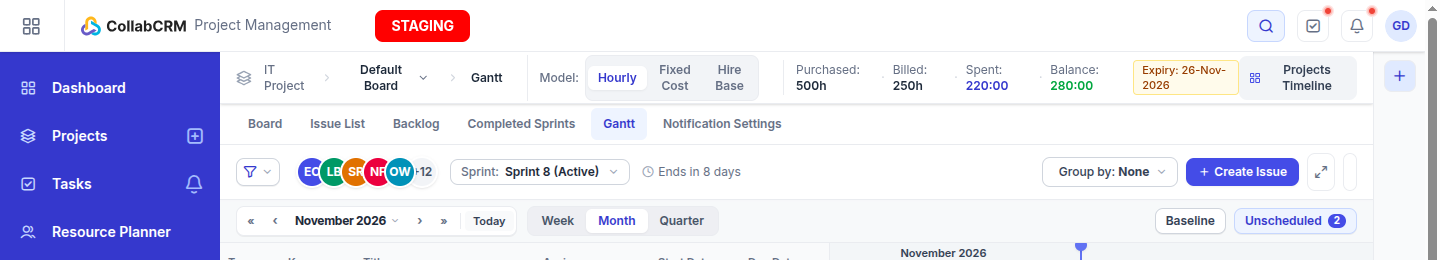
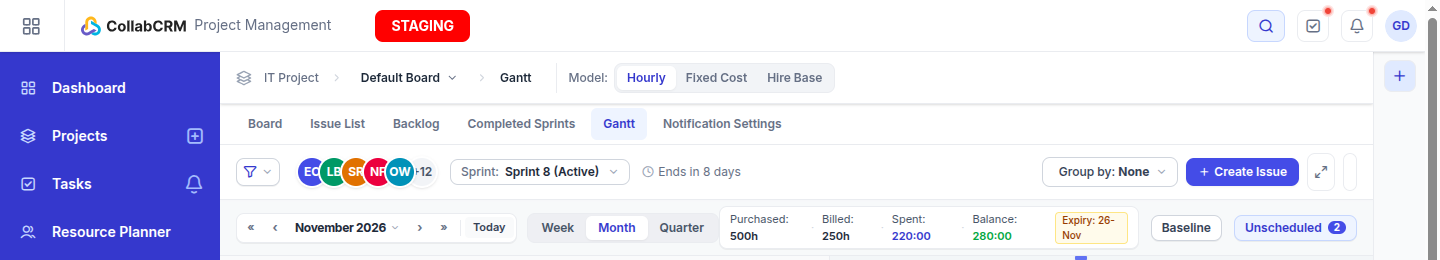
fix: clean top breadcrumb header, remove timeline button, and show individual developer contracts for hire base

diff --git a/src/pages/GanttBoard.jsx b/src/pages/GanttBoard.jsx
@@ -1733,64 +1733,6 @@ export default function GanttBoard() {
                   ))}
                 </div>
               </div>
-
-              {/* Compact Project Hours / Contract KPI Pills (Option A) */}
-              <div className="flex items-center gap-2.5 ml-3 pl-3 border-l border-gray-200 text-xs">
-                {projectModel === 'Fixed Cost' && (
-                  <div className="flex items-center gap-2 text-xs">
-                    <span className="text-gray-500">Estimated: <strong className="text-gray-800 font-semibold">500h</strong></span>
-                    <span className="text-gray-300">·</span>
-                    <span className="text-gray-500">Top-Up: <strong className="text-gray-800 font-semibold">50h</strong></span>
-                    <span className="text-gray-300">·</span>
-                    <span className="text-gray-500">Total: <strong className="text-indigo-700 font-semibold">550h</strong></span>
-                    <span className="text-gray-300">·</span>
-                    <span className="text-gray-500">Spent: <strong className="text-gray-800 font-semibold">210:00</strong></span>
-                  </div>
-                )}
-                {projectModel === 'Hourly' && (
-                  <div className="flex items-center gap-2 text-xs">
-                    <span className="text-gray-500">Purchased: <strong className="text-gray-800 font-semibold">500h</strong></span>
-                    <span className="text-gray-300">·</span>
-                    <span className="text-gray-500">Billed: <strong className="text-gray-800 font-semibold">250h</strong></span>
-                    <span className="text-gray-300">·</span>
-                    <span className="text-gray-500">Spent: <strong className="text-indigo-700 font-semibold">220:00</strong></span>
-                    <span className="text-gray-300">·</span>
-                    <span className="text-gray-500">Balance: <strong className="text-green-600 font-semibold">280:00</strong></span>
-                    <span className="inline-flex items-center px-2 py-0.5 rounded bg-amber-50 border border-amber-200 text-amber-800 text-[11px] font-medium">
-                      Expiry: 26-Nov-2026
-                    </span>
-                  </div>
-                )}
-                {projectModel === 'Hire Base' && (
-                  <div className="flex items-center gap-2 text-xs">
-                    <span className="text-gray-500">Contract Start: <strong className="text-gray-800 font-semibold">01-Nov-2026</strong></span>
-                    <span className="text-gray-300">·</span>
-                    <span className="text-gray-500">Contract End: <strong className="text-gray-800 font-semibold">28-Nov-2026</strong></span>
-                    <span className="inline-flex items-center px-2 py-0.5 rounded bg-indigo-50 border border-indigo-200 text-indigo-700 text-[11px] font-semibold">
-                      Remaining: 8 days
-                    </span>
-                  </div>
-                )}
-              </div>
-            </div>
-
-            <div className="flex items-center gap-2">
-              {/* Dashboard Gantt Button (Story 8) */}
-              <button
-                onClick={() => {
-                  setUnscheduledOpen(false)
-                  setPanel(null)
-                  setResourcePlannerOpen(false)
-                  setCreateModalOpen(false)
-                  setCompanyGanttOpen(true)
-                }}
-                className="flex items-center gap-1.5 px-2.5 py-1.5 bg-gray-100 hover:bg-gray-200 text-gray-700 rounded-lg text-xs font-semibold transition-colors"
-                title="Projects Timeline"
-              >
-                <span className="icon-grid-01 text-xs text-indigo-600" />
-                <span>Projects Timeline</span>
-              </button>
-
             </div>
           </>
         )}
@@ -2142,8 +2084,30 @@ export default function GanttBoard() {
               )}
             </div>
 
-            {/* Right: Baseline + Unscheduled */}
-            <div className="flex items-center gap-2">
+            {/* Right: Project KPI (Hourly / Fixed Cost only) + Baseline + Unscheduled */}
+            <div className="flex items-center gap-3">
+              {projectModel === 'Hourly' && (
+                <div className="flex items-center gap-2 text-[11px] text-gray-600 bg-white px-2.5 py-1 rounded-lg border border-gray-200 shadow-2xs">
+                  <span>Purchased: <strong className="text-gray-800 font-semibold">500h</strong></span>
+                  <span className="text-gray-300">·</span>
+                  <span>Billed: <strong className="text-gray-800 font-semibold">250h</strong></span>
+                  <span className="text-gray-300">·</span>
+                  <span>Spent: <strong className="text-indigo-700 font-semibold">220:00</strong></span>
+                  <span className="text-gray-300">·</span>
+                  <span>Balance: <strong className="text-green-600 font-semibold">280:00</strong></span>
+                  <span className="inline-flex items-center px-1.5 py-0.2 rounded bg-amber-50 border border-amber-200 text-amber-800 text-[10px] font-medium ml-1">
+                    Expiry: 26-Nov
+                  </span>
+                </div>
+              )}
+              {projectModel === 'Fixed Cost' && (
+                <div className="flex items-center gap-2 text-[11px] text-gray-600 bg-white px-2.5 py-1 rounded-lg border border-gray-200 shadow-2xs">
+                  <span>Estimated: <strong className="text-gray-800 font-semibold">500h</strong></span>
+                  <span className="text-gray-300">·</span>
+                  <span>Spent: <strong className="text-gray-800 font-semibold">210:00</strong></span>
+                </div>
+              )}
+
               {/* Baseline toggle */}
               <button
                 onClick={() => setBaselineModalOpen(true)}
@@ -2211,6 +2175,11 @@ export default function GanttBoard() {
                       </div>
                       <span className="truncate font-bold text-gray-900">{issue.groupTitle}</span>
                       <span className="text-[10px] text-gray-500 ml-1.5 font-normal">({issue.role})</span>
+                      {projectModel === 'Hire Base' && (
+                        <span className="text-[10px] text-indigo-700 font-medium ml-2 bg-indigo-50 px-1.5 py-0.5 rounded border border-indigo-200 whitespace-nowrap">
+                          Contract: {issue.contract_start} to {issue.contract_end} ({issue.remaining_days}d left)
+                        </span>
+                      )}
                       {issue.hasClash && (
                         <span className="ml-auto px-1.5 py-0.2 bg-red-100 text-red-700 text-[9px] font-bold rounded">
                           ⚠ Clashing

diff --git a/src/data/gantt.js b/src/data/gantt.js
@@ -249,12 +249,12 @@ export const HIRE_BASE_DEVELOPERS = [
     role: 'Senior Developer',
     department: 'Engineering',
     contract_start: '01-Nov-2026',
-    contract_end: '28-Nov-2026',
-    remaining_days: 8,
+    contract_end: '15-Dec-2026',
+    remaining_days: 25,
     double_booked: true,
     double_booking_overlap: '05-Nov-2026 to 12-Nov-2026',
     allocations: [
-      { project: 'IT Project', start: '01-Nov-2026', end: '28-Nov-2026', hours: 40 },
+      { project: 'IT Project', start: '01-Nov-2026', end: '15-Dec-2026', hours: 40 },
       { project: 'Apex E-Commerce', start: '05-Nov-2026', end: '12-Nov-2026', hours: 20 }
     ]
   },
@@ -262,12 +262,12 @@ export const HIRE_BASE_DEVELOPERS = [
     name: 'Sofia Reyes',
     role: 'Backend Developer',
     department: 'Engineering',
-    contract_start: '05-Nov-2026',
-    contract_end: '28-Nov-2026',
-    remaining_days: 8,
+    contract_start: '10-Nov-2026',
+    contract_end: '10-Feb-2027',
+    remaining_days: 82,
     double_booked: false,
     allocations: [
-      { project: 'IT Project', start: '05-Nov-2026', end: '28-Nov-2026', hours: 40 }
+      { project: 'IT Project', start: '10-Nov-2026', end: '10-Feb-2027', hours: 40 }
     ]
   },
   {
@@ -275,11 +275,11 @@ export const HIRE_BASE_DEVELOPERS = [
     role: 'Frontend Developer',
     department: 'Engineering',
     contract_start: '15-Nov-2026',
-    contract_end: '28-Nov-2026',
-    remaining_days: 8,
+    contract_end: '30-Nov-2026',
+    remaining_days: 10,
     double_booked: false,
     allocations: [
-      { project: 'IT Project', start: '15-Nov-2026', end: '28-Nov-2026', hours: 40 }
+      { project: 'IT Project', start: '15-Nov-2026', end: '30-Nov-2026', hours: 40 }
     ]
   },
 ]
